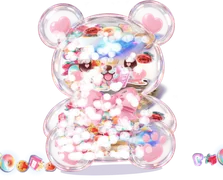
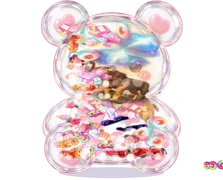
17 more gift jars + street-girl mascot (G11); gifts without white rims, aura only for 1000+, generated-jar glass shows gifts in full color, gentle float in globes/domes, no dust bursts / over-packing in domes

diff --git a/packages/overlay/public/giftjar.html b/packages/overlay/public/giftjar.html
@@ -65,6 +65,7 @@
     const SHOW_ALERT = P('alert', '1') !== '0', ALERT_MS = num('alertSec', 5) * 1000;
     const SHOW_BOARD = P('board', '1') !== '0', TOP = Math.max(1, Math.min(10, num('top', 1))), BOARD_FULL = P('boardFormat', 'full') !== 'name';
     const SHOW_TOTAL = P('total', '0') === '1', MIN_COINS = num('minCoins', 0);
+    const SHOT = P('shot', '0') === '1'; // ถ่ายภาพตัวอย่าง: ไม่มีประกาย
     let FULL_MODE = P('full', 'spill'); const FULL_TEXT = P('fullText', 'โหลเต็มแล้ว! 🎉');
     document.documentElement.style.setProperty('--font', `'${P('font', 'Kanit')}'`);
     document.documentElement.style.setProperty('--fs', String(num('fontSize', 50)));
@@ -174,37 +175,139 @@
         prof: [[-288.8, 60.3], [-268.6, 72.5], [-248.5, 78.4], [-228.3, 88.3], [-208.1, 84.3], [-188.0, 72.1], [-167.8, 69.7], [-147.6, 67.3], [-127.4, 64.7], [-107.3, 62.3], [-87.1, 59.8], [-66.9, 57.3], [-46.8, 54.8], [-26.6, 49.9]],
         hw: (y) => profileHW(SHAPES.boba.prof, y),
         openY: -288.8, openHW: 60.3, rimHW: 66.3, topY: -380.0, fullY: -258.8, maxHW: 88.3, floor: -26.6, closed: true,
-        image: { src: 'themes/jar-boba.webp', x: -111.5, y: -380.0, w: 223.0, h: 380.0 },
+        genGlass: true, image: { src: 'themes/jar-boba.webp', x: -111.5, y: -380.0, w: 223.0, h: 380.0 },
       },
       claw: { // ตู้คีบตุ๊กตา (ภาพ AI) — ผนังวัดจากภาพอัตโนมัติ
         prof: [[-266.0, 91.0], [-254.3, 90.8], [-242.6, 20], [-230.9, 20], [-219.2, 57.3], [-207.5, 20], [-195.8, 90.3], [-149.1, 90.3], [-137.4, 90.3], [-125.7, 90.3], [-114.0, 90.3]],
         hw: (y) => profileHW(SHAPES.claw.prof, y),
         openY: -266.0, openHW: 91.0, rimHW: 100.1, topY: -380.0, fullY: -236.0, maxHW: 91.0, floor: -114.0, closed: true,
-        image: { src: 'themes/jar-claw.webp', x: -134.5, y: -380.0, w: 269.0, h: 380.0 },
+        genGlass: true, image: { src: 'themes/jar-claw.webp', x: -134.5, y: -380.0, w: 269.0, h: 380.0 },
       },
       cakejar: { // เค้กชั้นใส (ภาพ AI) — ผนังวัดจากภาพอัตโนมัติ
         prof: [[-144.4, 110.2], [-137.4, 112.2], [-130.4, 112.5], [-123.4, 112.5], [-116.3, 109.5], [-109.3, 106.9], [-102.3, 106.9], [-95.3, 106.9], [-88.3, 106.9], [-81.3, 107.1], [-74.2, 108.0], [-67.2, 104.8], [-60.2, 95.6], [-53.2, 79.1]],
         hw: (y) => profileHW(SHAPES.cakejar.prof, y),
         openY: -144.4, openHW: 110.2, rimHW: 121.2, topY: -380.0, fullY: -114.4, maxHW: 112.5, floor: -53.2,
-        image: { src: 'themes/jar-cakejar.webp', x: -135.6, y: -380.0, w: 271.2, h: 380.0 },
+        genGlass: true, image: { src: 'themes/jar-cakejar.webp', x: -135.6, y: -380.0, w: 271.2, h: 380.0 },
       },
       glassbear: { // ตุ๊กตาหมีใส (ภาพ AI) — ผนังวัดจากภาพอัตโนมัติ
         prof: [[-334.4, 127.8], [-311.0, 127.5], [-287.6, 115.9], [-264.2, 101.0], [-240.9, 105.4], [-217.5, 104.8], [-194.1, 97.7], [-170.7, 76.4], [-147.3, 103.2], [-123.9, 119.7], [-100.6, 125.9], [-77.2, 118.7], [-53.8, 122.4], [-30.4, 117.2]],
         hw: (y) => profileHW(SHAPES.glassbear.prof, y),
         openY: -334.4, openHW: 127.8, rimHW: 140.6, topY: -380.0, fullY: -304.4, maxHW: 127.8, floor: -30.4, closed: true,
-        image: { src: 'themes/jar-glassbear.webp', x: -154.4, y: -380.0, w: 308.8, h: 380.0 },
+        genGlass: true, image: { src: 'themes/jar-glassbear.webp', x: -154.4, y: -380.0, w: 308.8, h: 380.0 },
       },
       planetjar: { // ขวดดาวเคราะห์ (ภาพ AI) — ผนังวัดจากภาพอัตโนมัติ
         prof: [[-273.6, 77.8], [-254.6, 94.6], [-235.6, 111.9], [-216.6, 136.2], [-197.6, 118.5], [-178.6, 137.1], [-159.6, 138.6], [-140.6, 136.6], [-121.6, 135.3], [-102.6, 121.8], [-83.6, 99.6], [-64.6, 85.5], [-45.6, 63.9], [-26.6, 68.9]],
         hw: (y) => profileHW(SHAPES.planetjar.prof, y),
         openY: -273.6, openHW: 77.8, rimHW: 85.6, topY: -380.0, fullY: -243.6, maxHW: 138.6, floor: -26.6, closed: true,
-        image: { src: 'themes/jar-planetjar.webp', x: -190.9, y: -380.0, w: 381.9, h: 380.0 },
+        genGlass: true, image: { src: 'themes/jar-planetjar.webp', x: -190.9, y: -380.0, w: 381.9, h: 380.0 },
       },
       latte: { // แก้วลาเต้ (ภาพ AI) — ผนังวัดจากภาพอัตโนมัติ
         prof: [[-296.4, 88.6], [-277.1, 78.0], [-257.8, 115.8], [-238.5, 79.6], [-219.2, 69.0], [-199.9, 67.1], [-180.6, 65.5], [-161.4, 64.4], [-142.1, 65.8], [-122.8, 88.3], [-103.5, 62.8], [-84.2, 52.6], [-64.9, 27.0], [-45.6, 45.7]],
         hw: (y) => profileHW(SHAPES.latte.prof, y),
         openY: -296.4, openHW: 88.6, rimHW: 97.5, topY: -380.0, fullY: -266.4, maxHW: 115.8, floor: -45.6, closed: true,
-        image: { src: 'themes/jar-latte.webp', x: -152.1, y: -380.0, w: 304.1, h: 380.0 },
+        genGlass: true, image: { src: 'themes/jar-latte.webp', x: -152.1, y: -380.0, w: 304.1, h: 380.0 },
+      },
+      milkbox: { // กล่องนมสตรอว์เบอร์รี่ (ภาพ AI) — ผนังวัดจากภาพอัตโนมัติ
+        prof: [[-266.0, 102.7], [-247.0, 103.1], [-228.0, 102.9], [-209.0, 102.9], [-190.0, 102.9], [-171.0, 102.9], [-152.0, 102.9], [-133.0, 102.9], [-114.0, 102.9], [-95.0, 102.9], [-76.0, 102.9], [-57.0, 102.9], [-38.0, 98.7], [-19.0, 85.3]],
+        hw: (y) => profileHW(SHAPES.milkbox.prof, y),
+        openY: -266.0, openHW: 102.7, rimHW: 113.0, topY: -380.0, fullY: -236.0, maxHW: 103.1, floor: -19.0, closed: true,
+        genGlass: true, image: { src: 'themes/jar-milkbox.webp', x: -124.7, y: -380.0, w: 249.3, h: 380.0 },
+      },
+      cupcake1: { // คัพเค้กใส (ภาพ AI) — ผนังวัดจากภาพอัตโนมัติ
+        prof: [[-296.4, 62.2], [-280.6, 77.3], [-264.8, 86.9], [-249.0, 100.5], [-233.3, 110.5], [-217.5, 114.5], [-201.7, 110.2], [-185.9, 108.4], [-170.1, 111.2], [-154.3, 111.7], [-138.6, 109.7], [-122.8, 119.3], [-107.0, 116.4], [-91.2, 102.1]],
+        hw: (y) => profileHW(SHAPES.cupcake1.prof, y),
+        openY: -296.4, openHW: 62.2, rimHW: 68.4, topY: -380.0, fullY: -266.4, maxHW: 119.3, floor: -91.2, closed: true,
+        genGlass: true, image: { src: 'themes/jar-cupcake1.webp', x: -146.9, y: -380.0, w: 293.8, h: 380.0 },
+      },
+      strawberry: { // โหลสตรอว์เบอร์รี่ (ภาพ AI) — ผนังวัดจากภาพอัตโนมัติ
+        prof: [[-258.4, 127.9], [-240.6, 101.7], [-222.7, 122.5], [-204.9, 131.4], [-187.1, 134.4], [-169.2, 133.9], [-151.4, 130.1], [-133.6, 124.4], [-115.8, 117.7], [-97.9, 112.0], [-80.1, 99.6], [-62.3, 88.9], [-44.4, 76.9], [-26.6, 61.6]],
+        hw: (y) => profileHW(SHAPES.strawberry.prof, y),
+        openY: -258.4, openHW: 127.9, rimHW: 140.7, topY: -380.0, fullY: -228.4, maxHW: 134.4, floor: -26.6, closed: true,
+        genGlass: true, image: { src: 'themes/jar-strawberry.webp', x: -161.4, y: -380.0, w: 322.8, h: 380.0 },
+      },
+      glasspig: { // กระปุกหมูแก้ว (ภาพ AI) — ผนังวัดจากภาพอัตโนมัติ
+        prof: [[-304.0, 152.6], [-285.0, 148.4], [-266.0, 139.2], [-247.0, 147.4], [-228.0, 152.9], [-209.0, 156.0], [-190.0, 166.1], [-171.0, 156.3], [-152.0, 165.0], [-133.0, 149.6], [-114.0, 143.2], [-95.0, 133.8], [-76.0, 119.7], [-57.0, 124.4]],
+        hw: (y) => profileHW(SHAPES.glasspig.prof, y),
+        openY: -304.0, openHW: 152.6, rimHW: 167.9, topY: -380.0, fullY: -274.0, maxHW: 166.1, floor: -57.0, closed: true,
+        genGlass: true, image: { src: 'themes/jar-glasspig.webp', x: -201.9, y: -380.0, w: 403.8, h: 380.0 },
+      },
+      cupcake2: { // คัพเค้กเชอร์รี่ (ภาพ AI) — ผนังวัดจากภาพอัตโนมัติ
+        prof: [[-247.0, 111.0], [-236.2, 113.0], [-225.4, 117.7], [-214.6, 124.6], [-203.7, 126.0], [-192.9, 109.8], [-182.1, 111.2], [-171.3, 112.3], [-160.5, 112.3], [-149.7, 111.4], [-138.8, 109.4], [-128.0, 106.7], [-117.2, 111.2], [-106.4, 109.2]],
+        hw: (y) => profileHW(SHAPES.cupcake2.prof, y),
+        openY: -247.0, openHW: 111.0, rimHW: 122.1, topY: -380.0, fullY: -217.0, maxHW: 126.0, floor: -106.4, closed: true,
+        genGlass: true, image: { src: 'themes/jar-cupcake2.webp', x: -152.2, y: -380.0, w: 304.4, h: 380.0 },
+      },
+      perfume: { // ขวดน้ำหอมหัวใจ (ภาพ AI) — ผนังวัดจากภาพอัตโนมัติ
+        prof: [[-258.4, 98.8], [-243.8, 102.5], [-229.2, 116.2], [-214.6, 134.9], [-199.9, 112.6], [-185.3, 112.9], [-170.7, 110.8], [-156.1, 107.1], [-141.5, 101.1], [-126.9, 93.9], [-112.2, 84.2], [-97.6, 72.4], [-83.0, 59.1], [-68.4, 57.3]],
+        hw: (y) => profileHW(SHAPES.perfume.prof, y),
+        openY: -258.4, openHW: 98.8, rimHW: 108.7, topY: -380.0, fullY: -228.4, maxHW: 134.9, floor: -68.4, closed: true,
+        genGlass: true, image: { src: 'themes/jar-perfume.webp', x: -185.7, y: -380.0, w: 371.3, h: 380.0 },
+      },
+      cloud: { // ก้อนเมฆสายรุ้ง (ภาพ AI) — ผนังวัดจากภาพอัตโนมัติ
+        prof: [[-228.0, 127.7], [-212.8, 101.6], [-197.6, 106.5], [-182.4, 115.8], [-167.2, 134.9], [-152.0, 151.0], [-136.8, 159.1], [-121.6, 163.8], [-106.4, 165.6], [-91.2, 165.2], [-76.0, 162.2], [-60.8, 155.5], [-45.6, 142.9], [-30.4, 114.2]],
+        hw: (y) => profileHW(SHAPES.cloud.prof, y),
+        openY: -228.0, openHW: 127.7, rimHW: 140.5, topY: -380.0, fullY: -198.0, maxHW: 165.6, floor: -30.4, closed: true,
+        genGlass: true, image: { src: 'themes/jar-cloud.webp', x: -197.6, y: -380.0, w: 395.1, h: 380.0 },
+      },
+      diamond: { // เพชรเจ้าหญิง (ภาพ AI) — ผนังวัดจากภาพอัตโนมัติ
+        prof: [[-334.4, 107.8], [-321.8, 115.2], [-309.3, 126.7], [-296.7, 137.2], [-284.1, 146.5], [-271.6, 145.6], [-259.0, 137.5], [-246.4, 129.0], [-233.8, 119.5], [-221.3, 110.0], [-208.7, 100.4], [-196.1, 90.8], [-183.6, 80.5], [-171.0, 69.2]],
+        hw: (y) => profileHW(SHAPES.diamond.prof, y),
+        openY: -334.4, openHW: 107.8, rimHW: 118.6, topY: -380.0, fullY: -304.4, maxHW: 146.5, floor: -171.0,
+        genGlass: true, image: { src: 'themes/jar-diamond.webp', x: -178.1, y: -380.0, w: 356.2, h: 380.0 },
+      },
+      crownjar: { // มงกุฎแก้ว (ภาพ AI) — ผนังวัดจากภาพอัตโนมัติ
+        prof: [[-266.0, 94.8], [-249.9, 133.2], [-233.8, 130.5], [-217.8, 128.0], [-201.7, 125.2], [-185.6, 128.0], [-169.5, 127.6], [-153.5, 124.9], [-137.4, 120.9], [-121.3, 115.3], [-105.2, 108.1], [-89.2, 99.6], [-73.1, 91.9], [-57.0, 92.3]],
+        hw: (y) => profileHW(SHAPES.crownjar.prof, y),
+        openY: -266.0, openHW: 94.8, rimHW: 104.3, topY: -380.0, fullY: -236.0, maxHW: 133.2, floor: -57.0,
+        genGlass: true, image: { src: 'themes/jar-crownjar.webp', x: -182.4, y: -380.0, w: 364.8, h: 380.0 },
+      },
+      capsule: { // แคปซูลนีออน (ภาพ AI) — ผนังวัดจากภาพอัตโนมัติ
+        prof: [[-304.0, 110.5], [-285.0, 108.6], [-266.0, 99.5], [-247.0, 100.6], [-228.0, 104.4], [-209.0, 104.6], [-190.0, 107.3], [-171.0, 113.4], [-152.0, 112.8], [-133.0, 104.6], [-114.0, 104.6], [-95.0, 104.1], [-76.0, 99.2], [-57.0, 103.7]],
+        hw: (y) => profileHW(SHAPES.capsule.prof, y),
+        openY: -304.0, openHW: 110.5, rimHW: 121.6, topY: -380.0, fullY: -274.0, maxHW: 113.4, floor: -57.0, closed: true,
+        genGlass: true, image: { src: 'themes/jar-capsule.webp', x: -137.2, y: -380.0, w: 274.4, h: 380.0 },
+      },
+      hourglass: { // นาฬิกาทราย (ภาพ AI) — ผนังวัดจากภาพอัตโนมัติ
+        prof: [[-171.0, 20], [-160.8, 22.7], [-150.5, 38.0], [-140.3, 48.6], [-130.1, 55.4], [-119.8, 59.6], [-109.6, 61.7], [-99.4, 87.1], [-89.2, 82.5], [-78.9, 59.7], [-68.7, 83.0], [-58.5, 91.4], [-48.2, 93.8], [-38.0, 90.9]],
+        hw: (y) => profileHW(SHAPES.hourglass.prof, y),
+        openY: -171.0, openHW: 20, rimHW: 22.0, topY: -380.0, fullY: -141.0, maxHW: 93.8, floor: -38.0, closed: true,
+        genGlass: true, image: { src: 'themes/jar-hourglass.webp', x: -113.9, y: -380.0, w: 227.8, h: 380.0 },
+      },
+      glasssnowman: { // มนุษย์หิมะแก้ว (ภาพ AI) — ผนังวัดจากภาพอัตโนมัติ
+        prof: [[-258.4, 77.4], [-240.9, 75.6], [-223.3, 71.3], [-205.8, 69.6], [-188.2, 62.3], [-170.7, 64.7], [-153.2, 82.4], [-135.6, 80.8], [-118.1, 89.5], [-100.6, 96.9], [-83.0, 95.3], [-65.5, 90.2], [-47.9, 84.0], [-30.4, 73.0]],
+        hw: (y) => profileHW(SHAPES.glasssnowman.prof, y),
+        openY: -258.4, openHW: 77.4, rimHW: 85.1, topY: -380.0, fullY: -228.4, maxHW: 96.9, floor: -30.4, closed: true,
+        genGlass: true, image: { src: 'themes/jar-glasssnowman.webp', x: -158.9, y: -380.0, w: 317.9, h: 380.0 },
+      },
+      idolmic: { // ไมค์ไอดอล (ภาพ AI) — ผนังวัดจากภาพอัตโนมัติ
+        prof: [[-361.0, 41.8], [-353.7, 48.1], [-346.4, 55.4], [-339.1, 57.1], [-331.8, 60.7], [-324.5, 63.8], [-317.2, 65.8], [-309.8, 71.5], [-302.5, 75.3], [-295.2, 75.0], [-287.9, 72.1], [-280.6, 67.4], [-273.3, 65.7], [-266.0, 63.5]],
+        hw: (y) => profileHW(SHAPES.idolmic.prof, y),
+        openY: -361.0, openHW: 41.8, rimHW: 46.0, topY: -380.0, fullY: -331.0, maxHW: 75.3, floor: -266.0, closed: true,
+        genGlass: true, image: { src: 'themes/jar-idolmic.webp', x: -92.7, y: -380.0, w: 185.3, h: 380.0 },
+      },
+      lantern: { // โคมจีนแก้ว (ภาพ AI) — ผนังวัดจากภาพอัตโนมัติ
+        prof: [[-285.0, 63.0], [-268.9, 79.2], [-252.8, 105.4], [-236.8, 98.7], [-220.7, 114.2], [-204.6, 95.3], [-188.5, 91.6], [-172.5, 84.4], [-156.4, 70.8], [-140.3, 56.6], [-124.2, 53.3], [-108.2, 20], [-92.1, 20], [-76.0, 20]],
+        hw: (y) => profileHW(SHAPES.lantern.prof, y),
+        openY: -285.0, openHW: 63.0, rimHW: 69.3, topY: -380.0, fullY: -255.0, maxHW: 114.2, floor: -76.0, closed: true,
+        genGlass: true, image: { src: 'themes/jar-lantern.webp', x: -142.8, y: -380.0, w: 285.5, h: 380.0 },
+      },
+      pumpkinjar: { // ฟักทองแก้ว (ภาพ AI) — ผนังวัดจากภาพอัตโนมัติ
+        prof: [[-285.0, 75.4], [-265.4, 97.5], [-245.8, 109.7], [-226.2, 131.6], [-206.7, 142.8], [-187.1, 149.9], [-167.5, 153.1], [-147.9, 154.6], [-128.3, 153.5], [-108.7, 150.6], [-89.2, 145.4], [-69.6, 137.7], [-50.0, 126.1], [-30.4, 107.4]],
+        hw: (y) => profileHW(SHAPES.pumpkinjar.prof, y),
+        openY: -285.0, openHW: 75.4, rimHW: 82.9, topY: -380.0, fullY: -255.0, maxHW: 154.6, floor: -30.4, closed: true,
+        genGlass: true, image: { src: 'themes/jar-pumpkinjar.webp', x: -184.6, y: -380.0, w: 369.1, h: 380.0 },
+      },
+      sakurabottle: { // ขวดซากุระ (ภาพ AI) — ผนังวัดจากภาพอัตโนมัติ
+        prof: [[-247.0, 56.4], [-230.0, 68.3], [-213.1, 61.3], [-196.1, 61.3], [-179.2, 60.2], [-162.2, 58.1], [-145.3, 55.8], [-128.3, 52.8], [-111.4, 49.8], [-94.4, 46.4], [-77.5, 43.3], [-60.5, 40.5], [-43.6, 39.4], [-26.6, 50.3]],
+        hw: (y) => profileHW(SHAPES.sakurabottle.prof, y),
+        openY: -247.0, openHW: 56.4, rimHW: 62.0, topY: -380.0, fullY: -217.0, maxHW: 68.3, floor: -26.6, closed: true,
+        genGlass: true, image: { src: 'themes/jar-sakurabottle.webp', x: -97.5, y: -380.0, w: 194.9, h: 380.0 },
+      },
+      tuktuk: { // ตุ๊กตุ๊กใส (ภาพ AI) — ผนังวัดจากภาพอัตโนมัติ
+        prof: [[-266.0, 130.3], [-254.3, 131.9], [-242.6, 133.8], [-230.9, 149.8], [-219.2, 136.3], [-207.5, 137.6], [-195.8, 138.8], [-184.2, 140.1], [-172.5, 146.6], [-160.8, 147.5], [-149.1, 146.5], [-137.4, 139.6], [-125.7, 140.0], [-114.0, 139.6]],
+        hw: (y) => profileHW(SHAPES.tuktuk.prof, y),
+        openY: -266.0, openHW: 130.3, rimHW: 143.3, topY: -380.0, fullY: -236.0, maxHW: 149.8, floor: -114.0, closed: true,
+        genGlass: true, image: { src: 'themes/jar-tuktuk.webp', x: -181.7, y: -380.0, w: 363.4, h: 380.0 },
       },
       jstar: { // โหลดาว (ภาพ 3D) — ผนังวัดจากภาพ
         prof: [[-319.4,51.9],[-267.9,66.2],[-250.1,172.9],[-218.1,180.0],[-182.5,119.5],[-154.0,112.4],[-100.7,130.2],[-65.1,151.5],[-26.0,123.1]],
@@ -498,7 +601,7 @@
         ctx.beginPath(); ctx.ellipse(0, -2, SH.maxHW * 0.9, 12, 0, 0, Math.PI * 2); ctx.fillStyle = 'rgba(90,70,140,.25)'; ctx.fill();
         if (SH.solid) { if (shapeImg.ready()) ctx.drawImage(shapeImg.source, SH.image.x, SH.image.y, SH.image.w, SH.image.h); return; } // รถทึบ: วาดเต็มเป็นชั้นหลัง
         if (shapeBack) { if (shapeBack.ready()) ctx.drawImage(shapeBack.source, SH.image.x, SH.image.y, SH.image.w, SH.image.h); return; } // ชั้นหลัง (บ้าน/ฐาน)
-        if (shapeImg.ready()) { ctx.save(); ctx.globalAlpha = 0.35; ctx.drawImage(shapeImg.source, SH.image.x, SH.image.y, SH.image.w, SH.image.h); ctx.restore(); } // ผนังหลัง
+        if (shapeImg.ready()) { ctx.save(); ctx.globalAlpha = SH.genGlass ? 1 : 0.35; ctx.drawImage(shapeImg.source, SH.image.x, SH.image.y, SH.image.w, SH.image.h); ctx.restore(); } // ผนังหลัง (รูป Gen: เต็มทั้งรูป ของขวัญวาดทับ)
         return;
       }
       if (SH.solid) return drawCar();
@@ -526,7 +629,8 @@
             const wx = SH.image.x + x * kx; if (Math.abs(wx) > half) continue;
             const i = (y * w + x) * 4; if (a[i + 3] < 8) continue;
             const r = a[i], gg = a[i + 1], b = a[i + 2], mx = Math.max(r, gg, b), mn = Math.min(r, gg, b);
-            if (mx > 195 && (mx - mn) / mx < 0.16) a[i + 3] = Math.round(a[i + 3] * 0.4);
+            if (SH.genGlass) a[i + 3] = (mx > 240 && (mx - mn) / mx < 0.08) ? Math.round(a[i + 3] * 0.35) : 0; // รูป Gen: ช่องใส่ของโปร่งทั้งหมด (เหลือแค่ประกายแสง) — ของขวัญสีสดเต็ม ๆ
+            else if (mx > 195 && (mx - mn) / mx < 0.16) a[i + 3] = Math.min(Math.round(a[i + 3] * 0.4), 45); // ฝ้าขาวในกระจก → ใส
           }
         }
         g.putImageData(d, 0, 0); glassCanvas = c;
@@ -711,7 +815,7 @@
       if (SH.solid && !dropFromTop && !g.o) { b.x = (Math.random() - .5) * 180; b.y = SH.topY - 20 - Math.random() * 200; b.px = b.x; b.py = b.y; }
       if (SH.mouth && dropFromTop && !out) { b.eat = true; b.x = SH.mouth.x + (Math.random() - .5) * 60; b.y = SH.topY - 50 - Math.random() * 70; b.px = b.x; b.py = b.y - 2; } // หมู: ตกลงปากก่อน
       bodies.push(b);
-      if (dropFromTop) fx.sparkle(b.x, b.y, 5, b.d >= 1000 ? '#ffe08a' : '#fff6e8');
+      if (dropFromTop && !SHOT) fx.sparkle(b.x, b.y, 5, b.d >= 1000 ? '#ffe08a' : '#fff6e8');
       if (dropFromTop && SH.music && fx.notes) fx.notes(b.x, SH.topY + 20, b.d >= 100 ? 5 : 2); // ธีมนักร้อง: โน้ตดนตรีลอย
       if (dropFromTop && SH.dome && SWIRL) swirlUntil = Math.max(swirlUntil, performance.now() + (b.d >= 1000 ? 4200 : b.d >= 100 ? 3200 : 2400)); // ลูกแก้ว: เขย่าเบา ๆ
       const alive = bodies.filter((k) => !k.dying);
@@ -823,7 +927,7 @@
         const vout = b.y - b.py;
         if (b.vin > 4 && vout < b.vin * 0.35 && b.age > 3) {
           (b.sq ||= new Juice.Spring(260, 13)).kick(-Math.min(b.vin, 14) * 0.9);
-          if (b.vin > 7) fx.dust(b.x, b.y + b.r * 0.8, 3);
+          if (b.vin > 9 && b.age > 30 && Math.random() < 0.35) fx.dust(b.x, b.y + b.r * 0.8, 2); // ฝุ่นเฉพาะตอนตกกระแทกจริง (ไม่ฟุ้งตอนกองขยับ)
           if (b.d >= 1000) jarWobble.kick(Math.min(b.vin, 14) * 0.012 * (Math.random() < 0.5 ? -1 : 1));
         }
         if (b.sq) b.sq.step(1 / 60);
@@ -855,7 +959,7 @@
       // ชิ้นในโหลที่ไม่ได้กำลังตก (อายุ > 2 วิ) กองสูงถึงไหล่โหล = เต็ม
       // โดมอวกาศ (ลอยหมุน): ดูจากพื้นที่ที่ของขวัญใช้จริงในโดม — ชิ้นที่ลอยผ่านด้านบนไม่นับว่าเต็ม
       const full = SH.space
-        ? bodies.reduce((a, b) => a + (!b.out && !b.dying ? Math.PI * b.r * b.r : 0), 0) > Math.PI * SH.dome.r * SH.dome.r * 0.5
+        ? bodies.reduce((a, b) => a + (!b.out && !b.dying ? Math.PI * b.r * b.r : 0), 0) > Math.PI * SH.dome.r * SH.dome.r * 0.4 // ไม่อัดแน่นจนเด้งกระจาย
         : bodies.some((b) => !b.out && !b.dying && b.age > 120 && b.y - b.r < SH.fullY);
       spilling = full && FULL_MODE === 'spill';
       if (FULL_MODE === 'spill') {
@@ -894,7 +998,9 @@
     function drawBody(b) {
       if (b.life > 0.5) Juice.aura(ctx, b.x, b.y, b.r, b.d, nowT);
       const q = b.sq ? Math.max(-0.35, Math.min(0.35, b.sq.x)) : 0;
-      ctx.save(); ctx.globalAlpha = b.life; ctx.translate(b.x, b.y + b.r * -q * 0.5); ctx.scale(1 - q, 1 + q);
+      // ลูกแก้ว/โดม: ลอยขึ้นลงเบา ๆ ไม่พร้อมกัน (ภาพอย่างเดียว ไม่กระทบฟิสิกส์)
+      const fl = SH.dome && !b.out ? Math.sin(nowT * (0.7 + (b.r % 7) * 0.05) + b.x * 0.07 + b.r) * Math.min(7, 2 + b.r * 0.12) : 0;
+      ctx.save(); ctx.globalAlpha = b.life; ctx.translate(b.x, b.y + fl + b.r * -q * 0.5); ctx.scale(1 - q, 1 + q);
       ctx.rotate(b.rot + (WAVES && SH.water != null && !b.out && b.y > SH.water ? Math.sin(nowT * 1.4 + b.x * 0.05) * 0.14 : 0)); // ใต้น้ำ: เอียงโยกไปมา
       const st = Juice.sticker ? Juice.sticker(b.img, b.r * 2.2 * S() * DPR) : null; // สติกเกอร์คมชัด ขอบขาว + เงานุ่ม
       if (st) { const s = b.r * 2.2 * Juice.STICKER_PAD; ctx.drawImage(st, -s / 2, -s / 2, s, s); }
@@ -1016,7 +1122,7 @@
     requestAnimationFrame(frame);
 
     // ---- ตัววัดประสิทธิภาพ (?debug=1) + ทดสอบของจำนวนมาก (?n=300) — ใช้เทียบกับ lab/giftjar-pixi.html ----
-    if (P('debug', '0') === '1') {
+    if (P('debug', '0') === '1') { window.__bodies = bodies;
       const el = document.createElement('div');
       el.style.cssText = 'position:fixed;left:8px;top:8px;font:13px/1.4 monospace;color:#fff;background:rgba(20,10,30,.7);padding:6px 10px;border-radius:8px;white-space:pre;z-index:99';
       document.body.appendChild(el);
@@ -1033,7 +1139,7 @@ FPS ${frames}  แย่สุด ${worst.toFixed(1)} ms
     // ---- เดโม (เปิดไฟล์ตรง ๆ / ?demo=1) ----
     if (!Overlay.connected && !STRESS) {
       VJLCollect.demoBurst(onGift);
-      setInterval(() => onGift(VJLCollect.demoGift()), 1300); // ของขวัญจริง (รูปจาก TikTok)
+      if (P('shot', '0') !== '1') setInterval(() => onGift(VJLCollect.demoGift()), 1300); // ของขวัญจริง (รูปจาก TikTok)
     }
   })();
   </script>

diff --git a/packages/dashboard/lib/widgetSettings.ts b/packages/dashboard/lib/widgetSettings.ts
@@ -61,7 +61,7 @@ export const WIDGET_SETTINGS: Record<string, WidgetSettingsDef> = {
         { key: 'shape', label: 'ทรงโหล', type: 'select', def: 'heart', options: [
           ['heart', 'โหลหัวใจ', '🌸 พาสเทลน่ารัก', 'gj-heart'], ['orb', 'โหลกลมห่วงชมพู', '🌸 พาสเทลน่ารัก', 'gj-orb'],
           ['sundae', 'ถ้วยไอศกรีม', '🌸 พาสเทลน่ารัก', 'gj-sundae'],
-          ['jstar', 'โหลดาว', '🌸 พาสเทลน่ารัก', 'gj-jstar'], ['vaseglass', 'แจกันแก้วชมพู', '🌸 พาสเทลน่ารัก', 'gj-vaseglass'], ['boba', 'แก้วชานมไข่มุก', '✨ แบบใหม่', 'gj-boba'], ['claw', 'ตู้คีบตุ๊กตา', '✨ แบบใหม่', 'gj-claw'], ['cakejar', 'เค้กชั้นใส', '✨ แบบใหม่', 'gj-cakejar'], ['glassbear', 'ตุ๊กตาหมีใส', '✨ แบบใหม่', 'gj-glassbear'], ['planetjar', 'ขวดดาวเคราะห์', '✨ แบบใหม่', 'gj-planetjar'], ['latte', 'แก้วลาเต้', '✨ แบบใหม่', 'gj-latte'],
+          ['jstar', 'โหลดาว', '🌸 พาสเทลน่ารัก', 'gj-jstar'], ['vaseglass', 'แจกันแก้วชมพู', '🌸 พาสเทลน่ารัก', 'gj-vaseglass'], ['boba', 'แก้วชานมไข่มุก', '✨ แบบใหม่', 'gj-boba'], ['claw', 'ตู้คีบตุ๊กตา', '✨ แบบใหม่', 'gj-claw'], ['cakejar', 'เค้กชั้นใส', '✨ แบบใหม่', 'gj-cakejar'], ['glassbear', 'ตุ๊กตาหมีใส', '✨ แบบใหม่', 'gj-glassbear'], ['planetjar', 'ขวดดาวเคราะห์', '✨ แบบใหม่', 'gj-planetjar'], ['latte', 'แก้วลาเต้', '✨ แบบใหม่', 'gj-latte'], ['milkbox', 'กล่องนมสตรอว์เบอร์รี่', '✨ แบบใหม่', 'gj-milkbox'], ['cupcake1', 'คัพเค้กใส', '✨ แบบใหม่', 'gj-cupcake1'], ['strawberry', 'โหลสตรอว์เบอร์รี่', '✨ แบบใหม่', 'gj-strawberry'], ['glasspig', 'กระปุกหมูแก้ว', '✨ แบบใหม่', 'gj-glasspig'], ['cupcake2', 'คัพเค้กเชอร์รี่', '✨ แบบใหม่', 'gj-cupcake2'], ['perfume', 'ขวดน้ำหอมหัวใจ', '✨ แบบใหม่', 'gj-perfume'], ['cloud', 'ก้อนเมฆสายรุ้ง', '✨ แบบใหม่', 'gj-cloud'], ['diamond', 'เพชรเจ้าหญิง', '✨ แบบใหม่', 'gj-diamond'], ['crownjar', 'มงกุฎแก้ว', '✨ แบบใหม่', 'gj-crownjar'], ['capsule', 'แคปซูลนีออน', '✨ แบบใหม่', 'gj-capsule'], ['hourglass', 'นาฬิกาทราย', '✨ แบบใหม่', 'gj-hourglass'], ['glasssnowman', 'มนุษย์หิมะแก้ว', '✨ แบบใหม่', 'gj-glasssnowman'], ['idolmic', 'ไมค์ไอดอล', '✨ แบบใหม่', 'gj-idolmic'], ['lantern', 'โคมจีนแก้ว', '✨ แบบใหม่', 'gj-lantern'], ['pumpkinjar', 'ฟักทองแก้ว', '✨ แบบใหม่', 'gj-pumpkinjar'], ['sakurabottle', 'ขวดซากุระ', '✨ แบบใหม่', 'gj-sakurabottle'], ['tuktuk', 'ตุ๊กตุ๊กใส', '✨ แบบใหม่', 'gj-tuktuk'],
           ['jbasket', 'โหลตะกร้า', '🌸 พาสเทลน่ารัก', 'gj-jbasket'],
           ['cauldron', 'โหลหม้อแม่มด', '🌸 พาสเทลน่ารัก', 'gj-cauldron'],
           ['catbank', 'กระปุกแมวใส', '🌸 พาสเทลน่ารัก', 'gj-catbank'],
@@ -451,7 +451,7 @@ export const WIDGET_SETTINGS: Record<string, WidgetSettingsDef> = {
   mascot: {
     sections: [
       { title: 'ตัวละคร', fields: [
-        { key: 'char', label: 'เลือกตัวแทนวีเจ', type: 'select', def: 'G1', options: [['G1', '🐰 กระต่ายหวาน', '👧 ผู้หญิง', '/overlay/mascot/G1/thumb.webp'], ['G2', '⭐ ไอดอลดาว', '👧 ผู้หญิง', '/overlay/mascot/G2/thumb.webp'], ['G4', '🔮 แม่มดไพ่ทาโร่', '👧 ผู้หญิง', '/overlay/mascot/G4/thumb.webp'], ['G6', '🎮 เกมเมอร์สาว', '👧 ผู้หญิง', '/overlay/mascot/G6/thumb.webp'], ['G8', '🌸 ชุดไทยประยุกต์', '👧 ผู้หญิง', '/overlay/mascot/G8/thumb.webp'], ['B4', '👑 เจ้าชาย', '👦 ผู้ชาย', '/overlay/mascot/B4/thumb.webp'], ['B7', '🧙 นักเวทย์', '👦 ผู้ชาย', '/overlay/mascot/B7/thumb.webp'], ['B8', '🎸 ร็อกเกอร์น่ารัก', '👦 ผู้ชาย', '/overlay/mascot/B8/thumb.webp'], ['B10', '🍜 เชฟหนุ่ม', '👦 ผู้ชาย', '/overlay/mascot/B10/thumb.webp']] },
+        { key: 'char', label: 'เลือกตัวแทนวีเจ', type: 'select', def: 'G1', options: [['G1', '🐰 กระต่ายหวาน', '👧 ผู้หญิง', '/overlay/mascot/G1/thumb.webp'], ['G2', '⭐ ไอดอลดาว', '👧 ผู้หญิง', '/overlay/mascot/G2/thumb.webp'], ['G4', '🔮 แม่มดไพ่ทาโร่', '👧 ผู้หญิง', '/overlay/mascot/G4/thumb.webp'], ['G6', '🎮 เกมเมอร์สาว', '👧 ผู้หญิง', '/overlay/mascot/G6/thumb.webp'], ['G8', '🌸 ชุดไทยประยุกต์', '👧 ผู้หญิง', '/overlay/mascot/G8/thumb.webp'], ['G11', '🎀 สาวสตรีท', '👧 ผู้หญิง', '/overlay/mascot/G11/thumb.webp'], ['B4', '👑 เจ้าชาย', '👦 ผู้ชาย', '/overlay/mascot/B4/thumb.webp'], ['B7', '🧙 นักเวทย์', '👦 ผู้ชาย', '/overlay/mascot/B7/thumb.webp'], ['B8', '🎸 ร็อกเกอร์น่ารัก', '👦 ผู้ชาย', '/overlay/mascot/B8/thumb.webp'], ['B10', '🍜 เชฟหนุ่ม', '👦 ผู้ชาย', '/overlay/mascot/B10/thumb.webp']] },
         { key: 'tint', label: 'สีชุดและผม', type: 'select', def: '0', options: [['0', '🎨 สีเดิม'], ['300', '💜 ม่วง'], ['220', '💙 ฟ้า'], ['160', '💚 มิ้นต์'], ['40', '🧡 พีช/ส้ม'], ['70', '💛 ทอง'], ['120', '🍀 เขียว'], ['330', '🩷 ชมพูบานเย็น']], hint: 'เปลี่ยนเฉพาะชุด ผม ของประดับ — สีผิวคงเดิม' },
         { key: 'sparkle', label: 'ประกายระยิบระยับรอบตัว', type: 'select', def: 'soft', options: [['soft', '✨ เบา ๆ (ค่าเริ่มต้น)'], ['lots', '🌟 จัดเต็ม'], ['off', 'ปิด']] },
         { key: 'name', label: 'ป้ายชื่อใต้ตัวละคร (เว้นว่าง = ไม่มี)', type: 'text', def: '' },

diff --git a/packages/overlay/public/js/juice.js b/packages/overlay/public/js/juice.js
@@ -73,7 +73,8 @@ window.Juice = (function () {
   }
 
   // ระดับออร่าตามมูลค่า (เหรียญต่อชิ้น): ทอง >= 1000, ม่วง >= 100, ฟ้า >= 20
-  function auraColor(d) { return d >= 1000 ? '255,205,90' : d >= 100 ? '200,150,255' : d >= 20 ? '140,200,255' : null; }
+  // ออร่าเฉพาะของแพง (1,000+) — ของถูก/กลางไม่มีหมอกแสง (กองแน่น ๆ แล้วแสงซ้อนจนของขวัญดูขาวซีด)
+  function auraColor(d) { return d >= 1000 ? '255,205,90' : null; }
   function aura(ctx, x, y, r, d, t) {
     const c = auraColor(d); if (!c) return;
     const pulse = 0.75 + 0.25 * Math.sin(t * 4 + x * 0.05);
@@ -142,10 +143,10 @@ window.Juice = (function () {
     const lg = sil.getContext('2d'); lg.drawImage(shape, 0, 0); lg.globalCompositeOperation = 'source-in'; lg.fillStyle = '#ffffff'; lg.fillRect(0, 0, size, size);
     c = document.createElement('canvas'); c.width = c.height = full;
     const g = c.getContext('2d'), rim = Math.max(1.2, size * 0.025); // ขอบขาวบางลง สีของขวัญเด่น
-    g.save(); g.shadowColor = 'rgba(60,40,100,.28)'; g.shadowBlur = size * 0.04; g.shadowOffsetY = size * 0.03;
-    for (let i = 0; i < 12; i++) { const a = i * Math.PI / 6; g.drawImage(sil, off + Math.cos(a) * rim, off + Math.sin(a) * rim); } // ขอบขาว + เงา
-    g.restore();
-    g.drawImage(shape, off, off);
+    // ไม่มีขอบขาว (สีของขวัญเต็ม ๆ) — เงานุ่มบาง ๆ ใต้ชิ้นพอให้แยกชิ้นตอนกองซ้อน
+    void sil; void rim;
+    g.save(); g.shadowColor = 'rgba(40,25,80,.32)'; g.shadowBlur = size * 0.05; g.shadowOffsetY = size * 0.025;
+    g.drawImage(shape, off, off); g.restore();
     if (stickerCache.size > 400) stickerCache.delete(stickerCache.keys().next().value);
     stickerCache.set(key, c);
     return c;

diff --git a/packages/dashboard/lib/i18n/en-widgets.ts b/packages/dashboard/lib/i18n/en-widgets.ts
@@ -611,4 +611,21 @@ export const EN_WIDGETS: Record<string, string> = {
   "ขวดดาวเคราะห์": "Planet bottle",
   "แก้วลาเต้": "Latte glass",
   "✨ แบบใหม่": "✨ New",
+  "🎀 สาวสตรีท": "🎀 Street girl",
+  "กล่องนมสตรอว์เบอร์รี่": "Strawberry milk box",
+  "คัพเค้กเชอร์รี่": "Cherry cupcake",
+  "โหลสตรอว์เบอร์รี่": "Strawberry jar",
+  "กระปุกหมูแก้ว": "Glass piggy bank",
+  "ขวดน้ำหอมหัวใจ": "Heart perfume bottle",
+  "ก้อนเมฆสายรุ้ง": "Rainbow cloud",
+  "เพชรเจ้าหญิง": "Princess diamond",
+  "มงกุฎแก้ว": "Glass crown",
+  "แคปซูลนีออน": "Neon capsule",
+  "นาฬิกาทราย": "Hourglass",
+  "มนุษย์หิมะแก้ว": "Glass snowman",
+  "ไมค์ไอดอล": "Idol mic",
+  "โคมจีนแก้ว": "Glass lantern",
+  "ฟักทองแก้ว": "Glass pumpkin",
+  "ขวดซากุระ": "Sakura bottle",
+  "ตุ๊กตุ๊กใส": "Glass tuk-tuk",
 };

diff --git a/packages/overlay/public/mascot.html b/packages/overlay/public/mascot.html
@@ -85,7 +85,7 @@
     // มีคนติดตามส่งหัวใจ · Action "มาสคอต" สั่งเต้น / เดินมาส่งจุ๊บ / ดีใจ / ส่งหัวใจ ได้จากกฎ
     // ?tint=0 (หมุนเฉดสีชุด/ผม) · ?char=G1 · ?pos=br|bl|bc · ?scale=1 · ?thanks=1 · ?thankText=… · ?big=100 · ?follow=1 · ?name=
     const P = (k, d) => Overlay.param(k, d);
-    const CHARS = ['G1', 'G2', 'G4', 'G6', 'G8', 'B4', 'B7', 'B8', 'B10'];
+    const CHARS = ['G1', 'G2', 'G4', 'G6', 'G8', 'G11', 'B4', 'B7', 'B8', 'B10'];
     const C = CHARS.includes(P('char', 'G1')) || /^C[A-Za-z0-9]{2,24}$/.test(P('char', '')) ? P('char', 'G1') : 'G1'; // C… = มาสคอตสั่งทำ
     const POS = ['bl', 'br', 'bc'].includes(P('pos', 'br')) ? P('pos', 'br') : 'br';
     document.body.className = POS;
